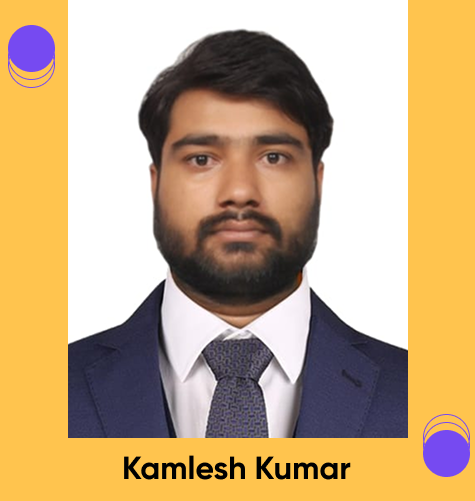
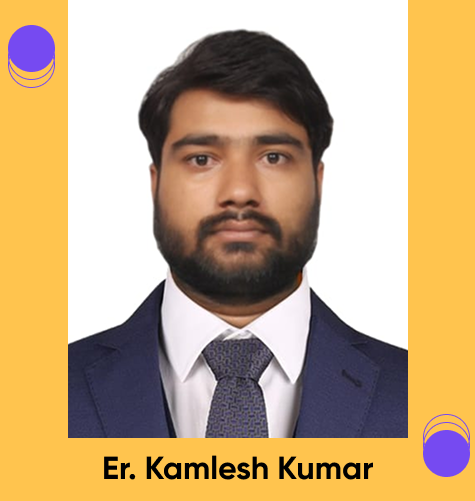
updated phone, email
hid the blog section for now.
updated director's image.

Changed region(s): [[0.2063, 0.8982, 0.7958, 0.9581]]

diff --git a/index.html b/index.html
@@ -448,7 +448,7 @@ window.TallyConfig = {
                                 <div class="content">
                                     <p>The counselors here are knowledgeable and supportive. They guided me every step of the way, making my admission journey stress-free!</p>
                                     <h6 class="title">Rahul Singh</h6>
-                                    <p>Galgotias ~ Noida</p>
+                                    <p>MBBS ~ Russia</p>
                                 </div>
                             </div>
                         </div>
@@ -598,7 +598,7 @@ window.TallyConfig = {
         <!--~~~~~~~~~~~~~~~~~~~~~~~~~~~~~~~~~~~~~~~
             News Section Area Start Here
         ~~~~~~~~~~~~~~~~~~~~~~~~~~~~~~~~~~~~~~~~-->
-        <section class="news-section-area margin-top-110">
+    <!--    <section class="news-section-area margin-top-110">
             <div class="container custom-container-01">
                 <div class="row justify-content-center">
                     <div class="col-lg-12">
@@ -662,7 +662,7 @@ window.TallyConfig = {
                     </div>
                 </div>
             </div>
-        </section>
+        </section>  -->
         <!--~~~~~~~~~~~~~~~~~~~~~~~~~~~~~~~~~~~~~~~
             News Section Area End Here
         ~~~~~~~~~~~~~~~~~~~~~~~~~~~~~~~~~~~~~~~~-->
@@ -884,6 +884,13 @@ window.TallyConfig = {
                                                 Basement, Atal path service road,
                                                 Shiv Puri, Near Ganji Factory,
                                                 Patna- 800023
+                                            </div>
+                                        </li>
+                                        <li class="single-info-item">
+                                            
+                                            <div class="details">
+                                                <a href="tel:+919717753104">Call: +91-9717753104</a> <br>
+                                                <a href="mailto:contact@makemycareer.info">Email: contact@makemycareer.info</a>
                                             </div>
                                         </li>
 

diff --git a/engg.html b/engg.html
@@ -446,6 +446,13 @@
                                             </div>
                                         </li>
 
+                                        <li class="single-info-item">
+                                            
+                                            <div class="details">
+                                                <a href="tel:+919717753104">Call: +91-9717753104</a> <br>
+                                                <a href="mailto:contact@makemycareer.info">Email: contact@makemycareer.info</a>
+                                            </div>
+                                        </li>
                                        
                                     </ul>
                                 </div>
